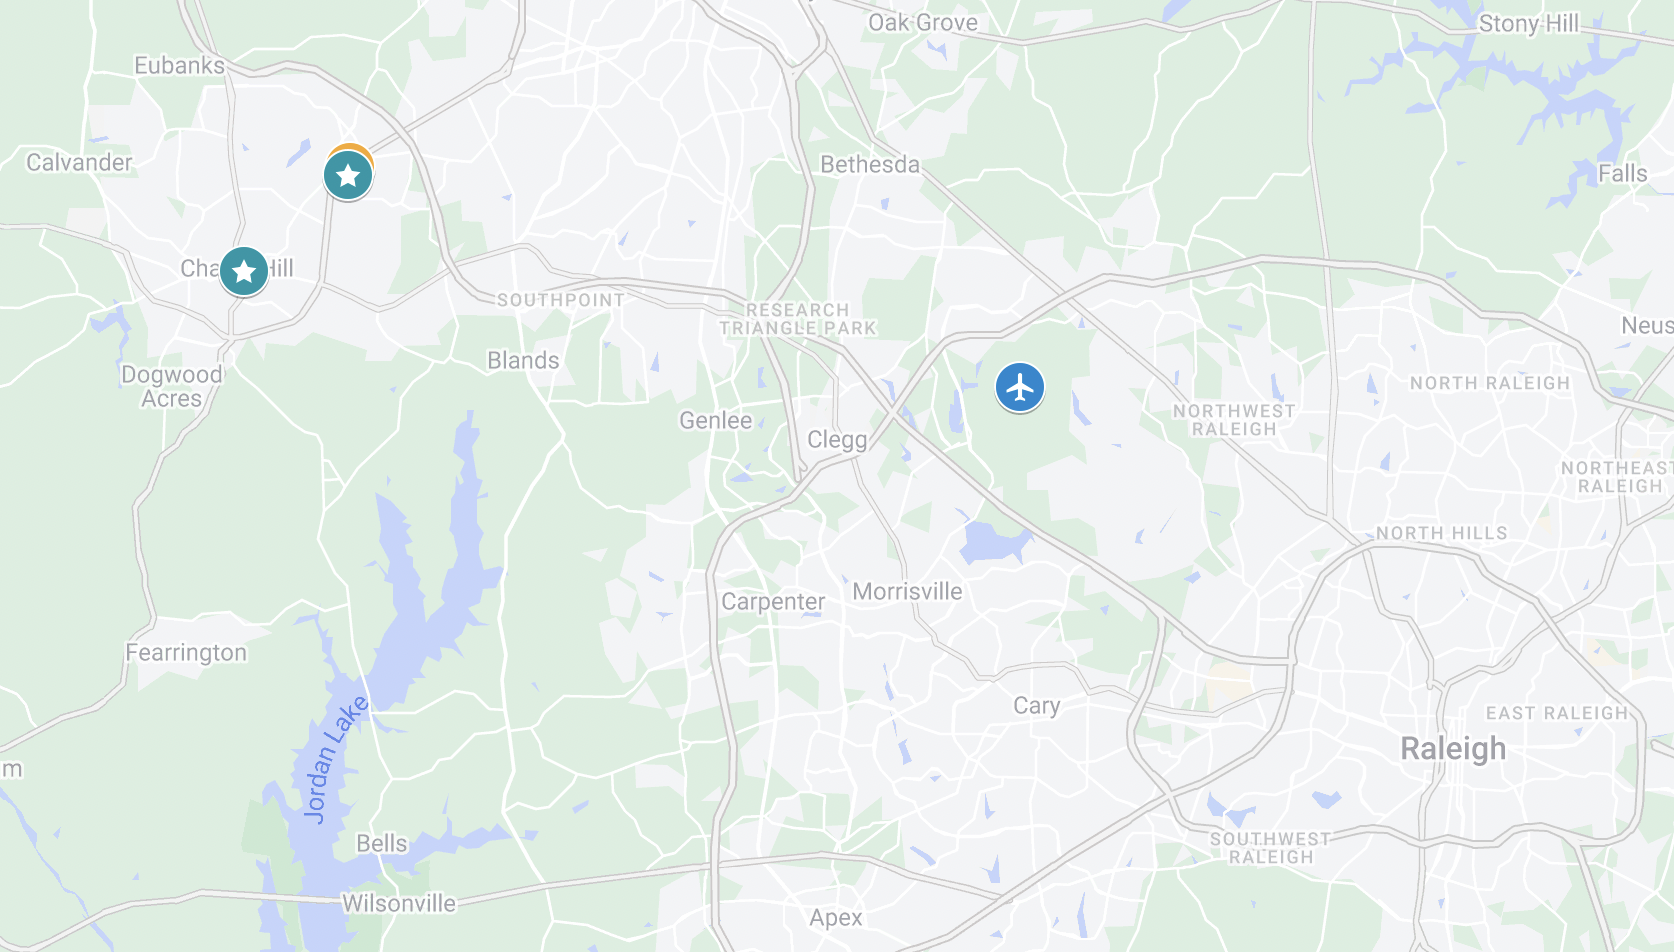
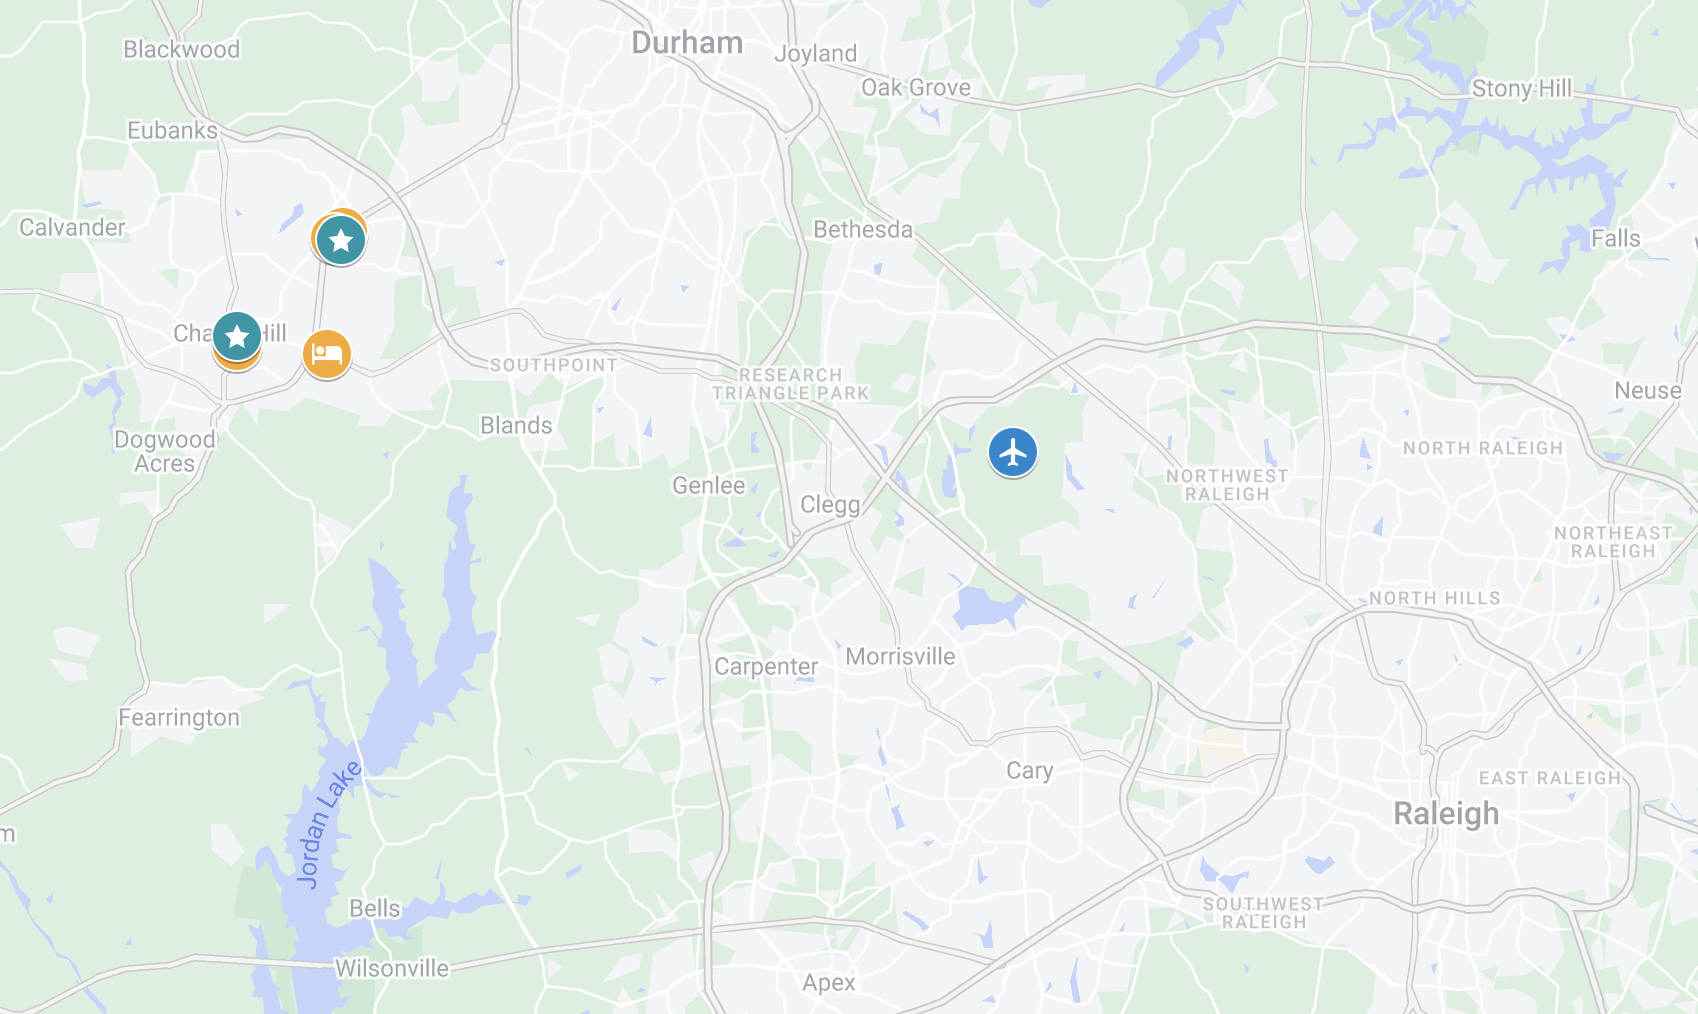
add hotels

diff --git a/content/pages/ugm2023/travel.html b/content/pages/ugm2023/travel.html
@@ -57,7 +57,7 @@
             <div class="col-xs-offset-2 col-xs-8" >
                 <h4 class="light_font">Map</h4>
                 <hr class="small_centered_line_ugm2017">
-                UGM venues and hotel:
+                UGM venues and hotels:
             </div>
             <div class="col-lg-offset-1 col-lg-10 col-md-offset-2 col-md-8 col-sm-offset-1 col-sm-10 col-xs-offset-0 col-xs-12 text-left" >
                 <div class="row pillar_section">
@@ -70,7 +70,7 @@
                 </div>
             </div>
             <div class="col-xs-offset-2 col-xs-8" >
-                <h4 class="light_font">Conference Hotel</h4>
+                <h4 class="light_font">Nearby Hotels</h4>
                 <hr class="small_centered_line_ugm2017">
             </div>
             <div class="col-lg-offset-1 col-lg-10 col-md-offset-2 col-md-8 col-sm-offset-1 col-sm-10 col-xs-offset-0 col-xs-12 text-left" >
@@ -88,6 +88,54 @@
                         Phone: +1 888-236-2427<br><br>
                         Amenities: free wifi, outdoor pool, fitness facility, restaurant<br><br>
                         Hotel Link: <a href="https://www.marriott.com/en-us/hotels/rdusc-sheraton-chapel-hill-hotel/overview/"  target="_blank" class="light_font_link">https://www.marriott.com/...</a><br>
+                    </div>
+                </div>
+                <div class="row pillar_section">
+                    <div class="col-lg-2 col-md-2 col-sm-2 col-xs-2 text-center tech_diagram_cont phone_hide">
+                        <a href="https://www.marriott.com/en-us/hotels/rducl-aloft-chapel-hill/overview/" target="_blank" ><img src="{filename}/images/ugm2023-hotel-aloft-chapelhill.jpg" class="tech_diagram"></a>
+                    </div>
+                    <div class="col-lg-9 col-md-9 col-sm-9 col-xs-12 diagram_description">
+                        <b>Aloft Chapel Hill</b><br class="phone_show"/>
+                        <br/>
+                        <a href="https://www.marriott.com/en-us/hotels/rducl-aloft-chapel-hill/overview/" target="_blank" class="phone_show"><img src="{filename}/images/ugm2023-hotel-aloft-chapelhill.jpg" class="tech_diagram"></a>
+                        <br class="phone_show"/>
+                        1001 South Hamilton Road<br>
+                        Chapel Hill, NC 27517<br>
+                        Phone: +1 919-932-7772<br><br>
+                        Amenities: free wifi, indoor pool, fitness facility, restaurant, dry cleaning / laundry<br><br>
+                        Hotel Link: <a href="https://www.marriott.com/en-us/hotels/rducl-aloft-chapel-hill/overview/"  target="_blank" class="light_font_link">https://www.marriott.com/...</a><br>
+                    </div>
+                </div>
+                <div class="row pillar_section">
+                    <div class="col-lg-2 col-md-2 col-sm-2 col-xs-2 text-center tech_diagram_cont phone_hide">
+                        <a href="https://www.hilton.com/en/hotels/rduceru-tru-chapel-hill/" target="_blank" ><img src="{filename}/images/ugm2023-hotel-tru-chapelhill.jpg" class="tech_diagram"></a>
+                    </div>
+                    <div class="col-lg-9 col-md-9 col-sm-9 col-xs-12 diagram_description">
+                        <b>Tru by Hilton Chapel Hill</b><br class="phone_show"/>
+                        <br/>
+                        <a href="https://www.hilton.com/en/hotels/rduceru-tru-chapel-hill/" target="_blank" class="phone_show"><img src="{filename}/images/ugm2023-hotel-tru-chapelhill.jpg" class="tech_diagram"></a>
+                        <br class="phone_show"/>
+                        1742 Fordham Blvd<br>
+                        Chapel Hill, NC 27514<br>
+                        Phone: +1 984-291-7200<br><br>
+                        Amenities: free wifi, fitness facility, hot breakfast<br><br>
+                        Hotel Link: <a href="https://www.hilton.com/en/hotels/rduceru-tru-chapel-hill/"  target="_blank" class="light_font_link">https://www.hilton.com/...</a><br>
+                    </div>
+                </div>
+                <div class="row pillar_section">
+                    <div class="col-lg-2 col-md-2 col-sm-2 col-xs-2 text-center tech_diagram_cont phone_hide">
+                        <a href="https://www.hyatt.com/en-US/hotel/north-carolina/the-carolina-inn/rdudc" target="_blank" ><img src="{filename}/images/ugm2023-hotel-thecarolinainn-chapelhill.jpg" class="tech_diagram"></a>
+                    </div>
+                    <div class="col-lg-9 col-md-9 col-sm-9 col-xs-12 diagram_description">
+                        <b>The Carolina Inn</b><br class="phone_show"/>
+                        <br/>
+                        <a href="https://www.hyatt.com/en-US/hotel/north-carolina/the-carolina-inn/rdudc" target="_blank" class="phone_show"><img src="{filename}/images/ugm2023-hotel-thecarolinainn-chapelhill.jpg" class="tech_diagram"></a>
+                        <br class="phone_show"/>
+                        211 Pittsboro Road<br>
+                        Chapel Hill, NC 27516<br>
+                        Phone: +1 919-933-2001<br><br>
+                        Amenities: free wifi, fitness facility, restaurant, laundry<br><br>
+                        Hotel Link: <a href="https://www.hyatt.com/en-US/hotel/north-carolina/the-carolina-inn/rdudc"  target="_blank" class="light_font_link">https://www.hyatt.com/...</a><br>
                     </div>
                 </div>
             </div>
